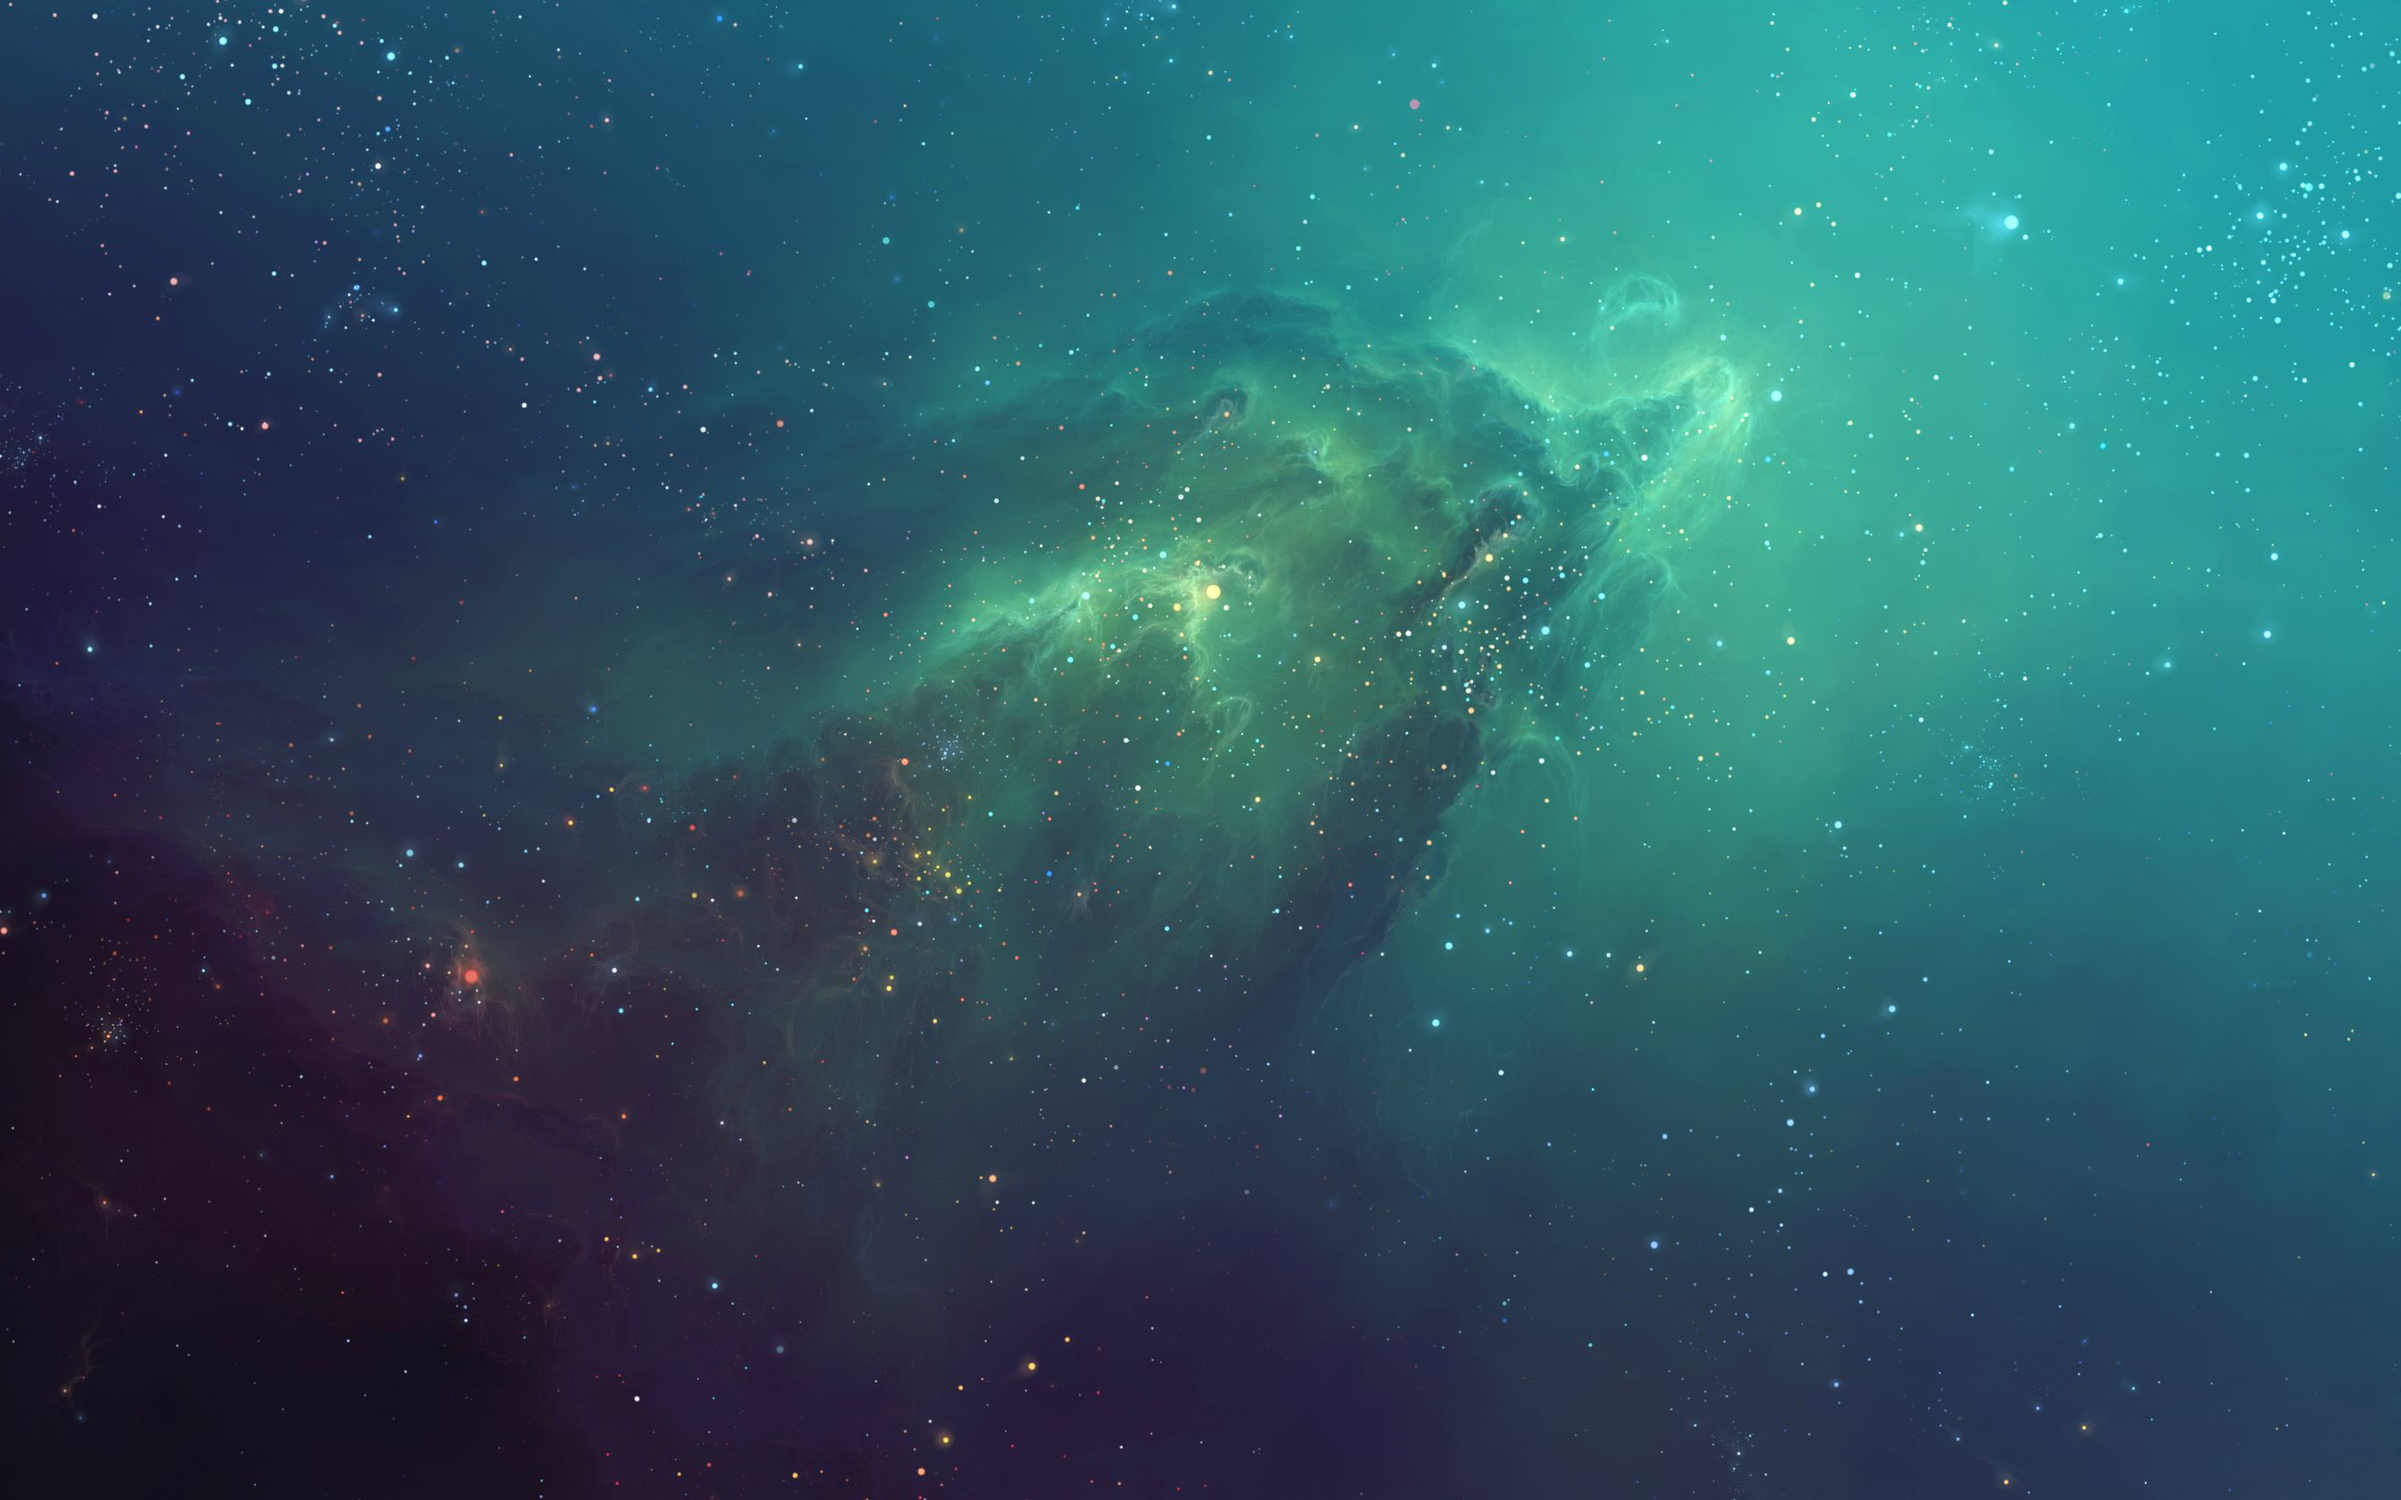
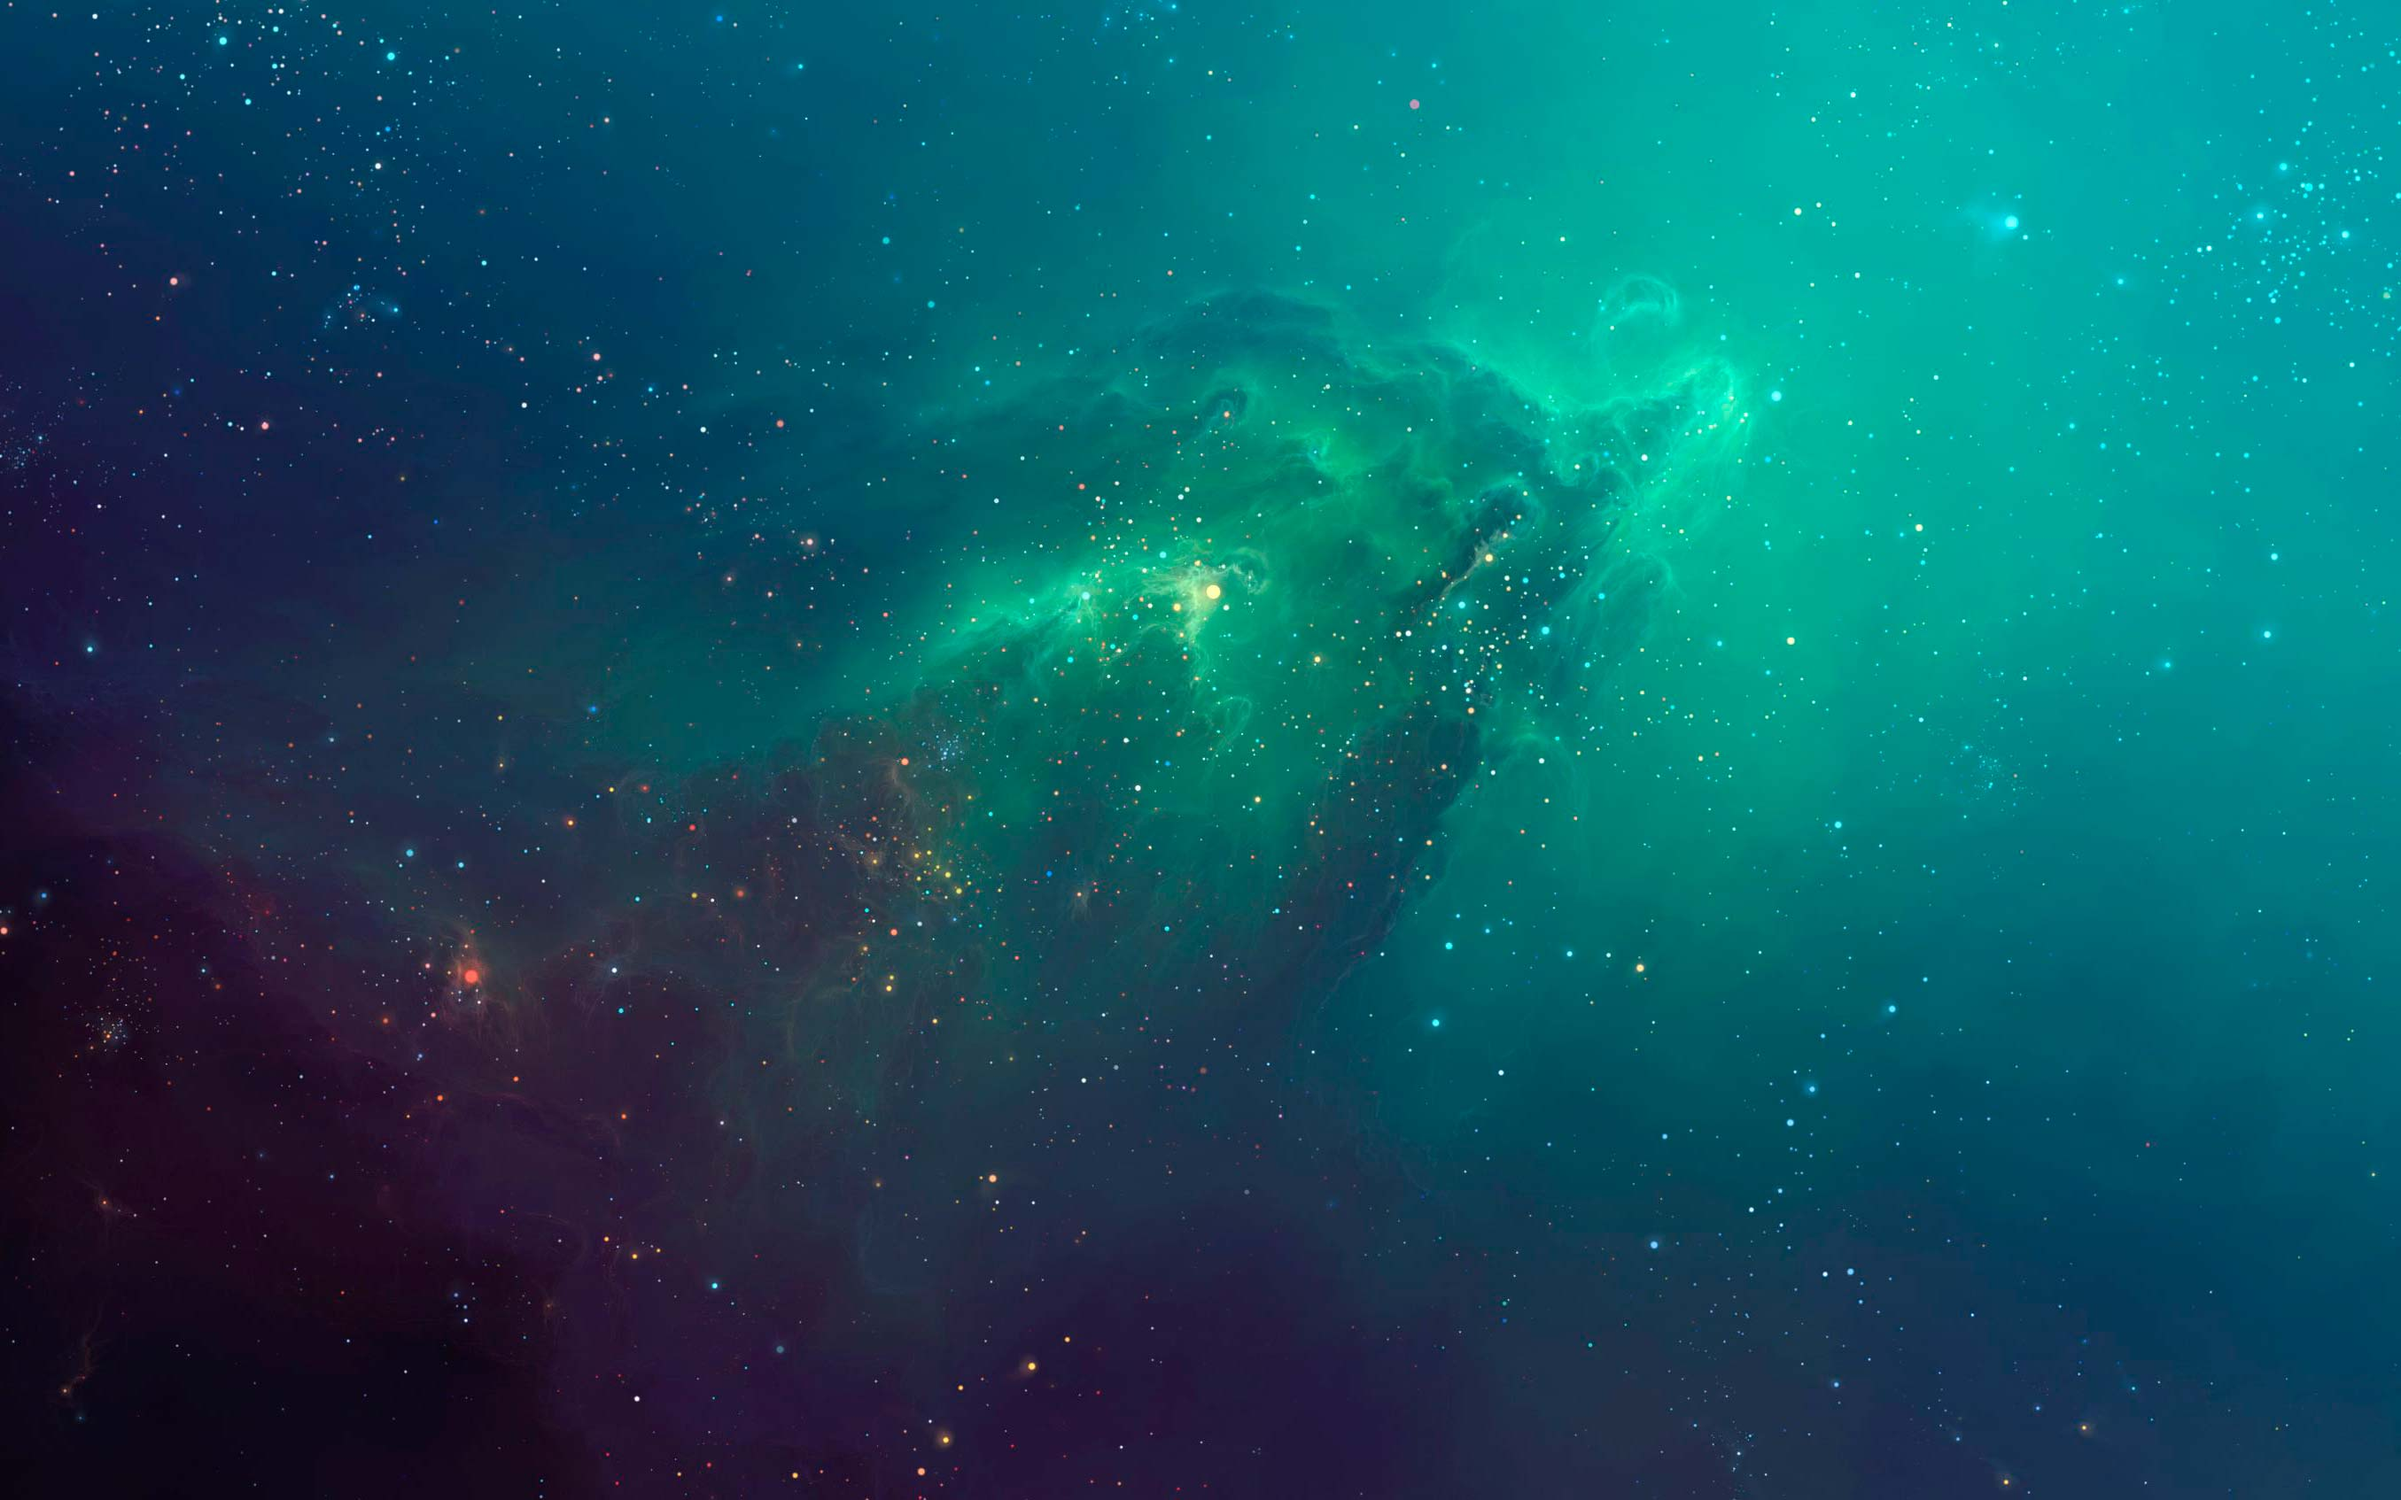
Media Queries add

diff --git a/css/main.css b/css/main.css
@@ -371,3 +371,23 @@ button:active {
 		opacity: 0;
 	}
 }
+
+/* ------ Media Queries ------ */
+
+/* 568-1200px */
+@media screen and (max-width: 1200px) {
+	body {
+		background: url(../img/bg-1200.jpg) no-repeat center center/cover;
+	}
+}
+
+/* 320-568px */
+@media screen and (max-width: 568px) {
+	body {
+		background: url(../img/bg-586.jpg) no-repeat center center/cover;
+	}
+	.calculator {
+		max-width: 280px;
+	    padding: 30px 0px 20px;
+	}
+}
